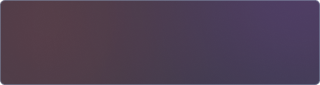
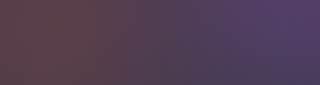
update: button fix

Changed region(s): [[0.0, 0.9647, 1.0, 1.0], [0.0, 0.0, 1.0, 0.0471]]

diff --git a/resources/css/globals.css b/resources/css/globals.css
@@ -178,15 +178,15 @@ p {
 .main-btn {
   background-color: transparent;
   background-image: var(--button-image-background);
-  background-size: 100%;
+  background-size: cover;
   background-repeat: no-repeat;
   padding: 23px 0;
   color: var(--main-title);
   font-size: 16px;
   font-weight: 600;
   text-align: center;
-  border-radius: 0;
-  border: 0;
+  border-radius: 5px;
+  border: 1px solid rgba(140, 150, 174, 0.600);
   outline: 0;
   transition: 0.3s all;
 }
